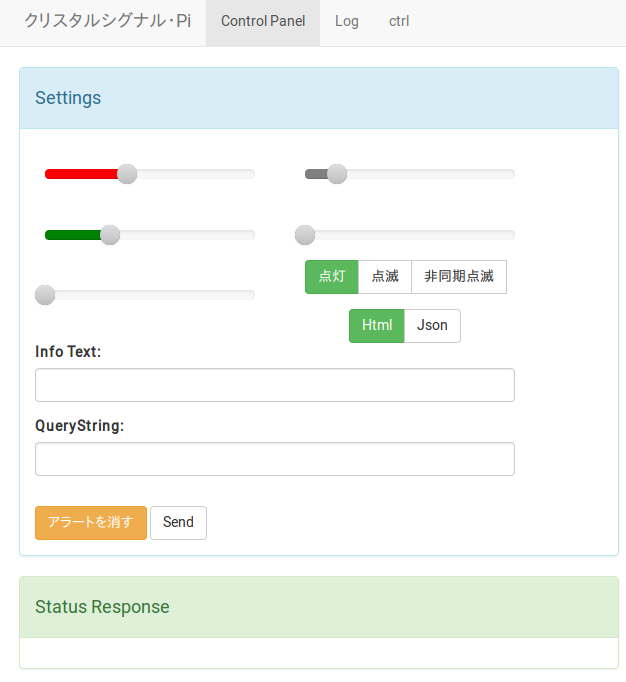
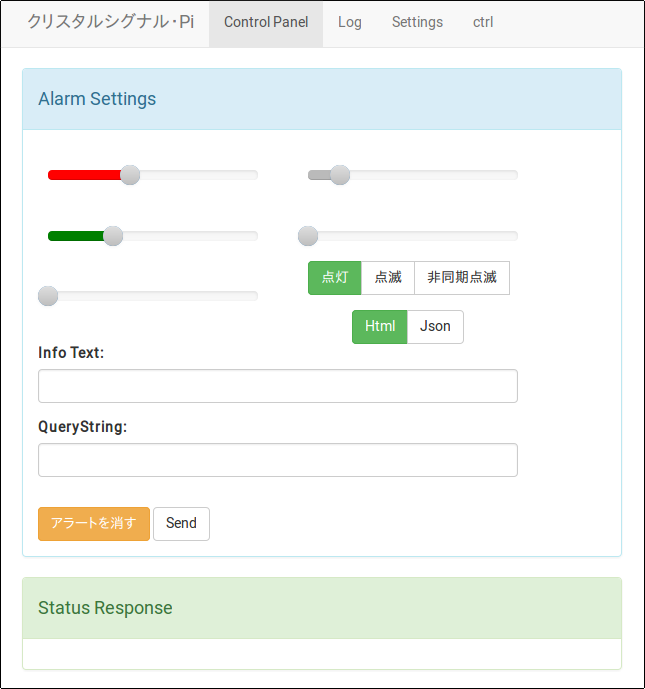
update README

diff --git a/README.md b/README.md
@@ -61,6 +61,7 @@ Webブラウザーから http://(Raspberry PiのIPアドレス)/ にアクセス
 * 「アラートを消す」ボタンをクリックすると、LEDが消灯します。
 * 「Send」ボタンをクリックすると、現在の設定値でアラートを再送します。
 * 「Log」ページでは、直近に発生したアラートの一覧を閲覧できます。
+* 「Settings」ページでは、LEDの輝度と、ボタン押下時、アラート発生時に実行するスクリプトを設定できます(後述)。
 * 「ctrl」ページでは、現在のCrystal Signal Piの状態(設定されているパラメータ)を確認できます。
 
 ![](doc/control.png)
@@ -87,9 +88,27 @@ Web UIのQueryStringの欄には、現在のスライダーの状態をAPI経由
 
 ![](doc/query.png)
 
-### Ackボタンの操作
+### ボタン押下時/アラート発生時の設定
 
-Crystal Signal Piの表面のボタンを押すと、アラートを停止(LEDを消灯)できます。これは`ack=1`でAPIをキックした時と同様の操作となります。
+Crystal Signal Piでは、ボタン押下時とアラートの発生時に任意のスクリプトを実行させることができます。デフォルトではアラート発生中にボタンを押した時に、アラートを停止(LEDを消灯)するスクリプト(Ack.sh)が登録されています。
+
+![](doc/settings.png)
+
+独自のスクリプトを利用したい場合は、/var/lib/crystal-signal/scriptsディレクトリ内にスクリプトをインストールしてください。Settingsページをリロードすると、プルダウンメニューにディレクトリ内のスクリプトが列挙されます。各機能にアサインしたいスクリプトを選択してください。
+
+たとえば、以下のスクリプトを/var/lib/crystal-signal/scripts/shutdown.shとして保存し、実行権限をつけておきます。このスクリプトを「長押し」にアサインすると、アラートが発生していない状態でボタンを2秒以上押すことで、Raspberry Piをシャットダウンできるようになります。
+
+```
+#!/bin/sh
+
+poweroff
+```
+
+**注意: スクリプトには実行権限が必要です。**
+
+**注意: サンプルで用意されているスクリプトは、ミドルウェアのアップデート時に上書きされます。これらのスクリプトをカスタマイズしたい場合は直接編集せず、別名でコピーした上でご利用ください。**
+
+**注意: アラートの発生時に実行するスクリプト中でさらにアラートを発生させると、さらにスクリプトが実行されてしまいます。アラートが無限ループしないよう、スクリプトの実装には気をつけてください。**
 
 ## ログ機能の使い方
 
